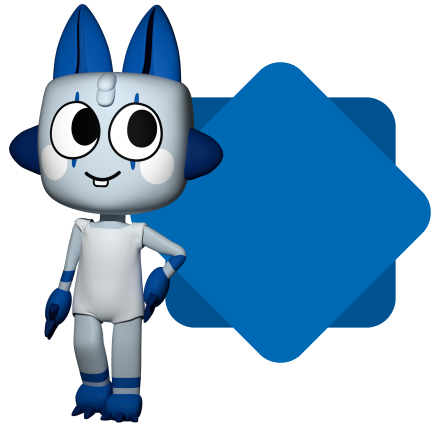
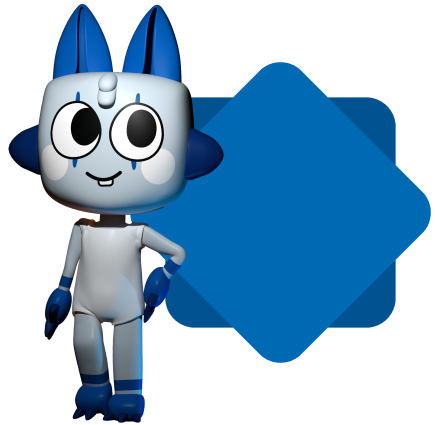
redo userlink a bit so long usernames arent Fucked. asset updates.
the way the css for userlinks are done now means i have to remove the "By" text otherwise it messes things up. its cleaner tho so whatever.

also turns out i forgot to commit this updated chaz craft render i did last week, along with an updated version of hamburger-light.svg that was done 6 months ago, Oops

diff --git a/private/skins/biscuit/scss/biscuit/_content_box.scss b/private/skins/biscuit/scss/biscuit/_content_box.scss
@@ -1,3 +1,14 @@
+@mixin content-box-small-info {
+    font-size: 10px;
+    font-weight: normal;
+
+    max-width: 100%;
+    overflow: hidden;
+    text-overflow: ellipsis;
+    display: inline-block;
+    white-space: nowrap;
+}
+
 .thumbnail
 {
     border: 1px solid $image-border-color;
@@ -83,19 +94,16 @@
 
     .content-entry-small
     {
-        max-height: 140px;
+        max-height: 240px;
         text-align: center;
+
+        .content-title {
+            @include content-box-small-info;
+        }
 
         // make "By [uploader]" (index) and "[submission title]" (profile) text smaller
         .content-author {
-            font-size: 10px;
-            font-weight: normal;
-
-            max-width: 100%;
-            overflow: hidden;
-            text-overflow: ellipsis;
-            display: inline-block;
-            white-space: nowrap;
+            @include content-box-small-info;
 
             // make links thinner
             a {
@@ -105,6 +113,14 @@
                 &.userlink {
                     font-weight: bold;
                 }
+            }
+        }
+
+        .content-rating {
+            .biscuit-icon {
+                width: 12px;
+                height: 12px;
+                background-size: 12px;
             }
         }
 

diff --git a/private/skins/biscuit/scss/biscuit/_imports.scss b/private/skins/biscuit/scss/biscuit/_imports.scss
@@ -171,11 +171,6 @@ hr {
   }
 }
 
-.userlink-handle {
-  color: #aaa;
-  text-decoration: none;
-}
-
 .fade {
   color: #888;
 }
@@ -207,10 +202,34 @@ hr {
 
 .userlink {
   display: inline-flex;
-  align-items: center;
+  text-wrap: auto;
+  flex-wrap: wrap;
 
-  /* this should be close enough to a space. */
-  gap: 0.5ch;
+  // ok so if the userlink is in a "small content entry" then center that shit.
+  .content-entry-small & {
+    text-align: center;
+    justify-content: center;
+  }
+
+  .userlink-displayname {
+    margin-right: 0.5ch;
+  }
+
+  .userlink-bullshit {
+    display: inline-flex;
+    flex-wrap: wrap;
+    //gap: 0.5ch; (fucks shit up???)
+    align-items: center;
+
+    .userlink-handle {
+      color: #aaa;
+      text-decoration: none;
+    }
+
+    .biscuit-icon {
+      margin-left: 0.5ch;
+    }
+  }
 }
 
 @import 'header';

diff --git a/private/class/SquareBracket/SquareBracketTwigExtension.php b/private/class/SquareBracket/SquareBracketTwigExtension.php
@@ -326,30 +326,46 @@ class SquareBracketTwigExtension extends AbstractExtension
         $class = "userlink-" . $username;
         $style = "color:" . $color;
 
+        // if user is staff
+        if ($powerlevel > 1) {
+            $staff_icon = '<div class="biscuit-icon staff"></div>';
+        } else {
+            $staff_icon = '';
+        }
+
         if (mb_strtolower($username) === mb_strtolower($displayName)) {
             // if username matches display name
-            $displayText = sprintf('<span style="%s">@%s</span>', $style, $username);
+            $displayText = sprintf('
+<div class="userlink-bullshit">
+<span style="%s">@%s</span>
+%s
+</div>',
+                $style,
+                $username,
+                $staff_icon
+            );
         } else {
             // if theyre different
             $displayText = sprintf(
-                '%s <a class="userlink-handle" style="text-decoration: none;" href="%s">@%s</a>',
+                '
+<div class="userlink-displayname">%s</div>
+<div class="userlink-bullshit">
+<a class="userlink-handle" style="text-decoration: none;" href="%s">@%s</a> %s
+</div>
+',
                 $displayName,
                 $href,
-                $username
+                $username,
+                $staff_icon
             );
         }
 
-        if ($powerlevel > 1) {
-            $staff_icon = '<div class="biscuit-icon staff"></div>';
-        }
-
         // return link
-        return sprintf('<div class="userlink"><a class="%s" style="%s" href="%s">%s</a>%s</div>',
+        return sprintf('<div class="userlink"><a class="%s" style="%s" href="%s">%s</a></div>',
             $class,
             $style,
             $href,
-            $displayText,
-            ($staff_icon ?? ''));
+            $displayText);
     }
 
     // old userlink used on bootstrap and finalium
